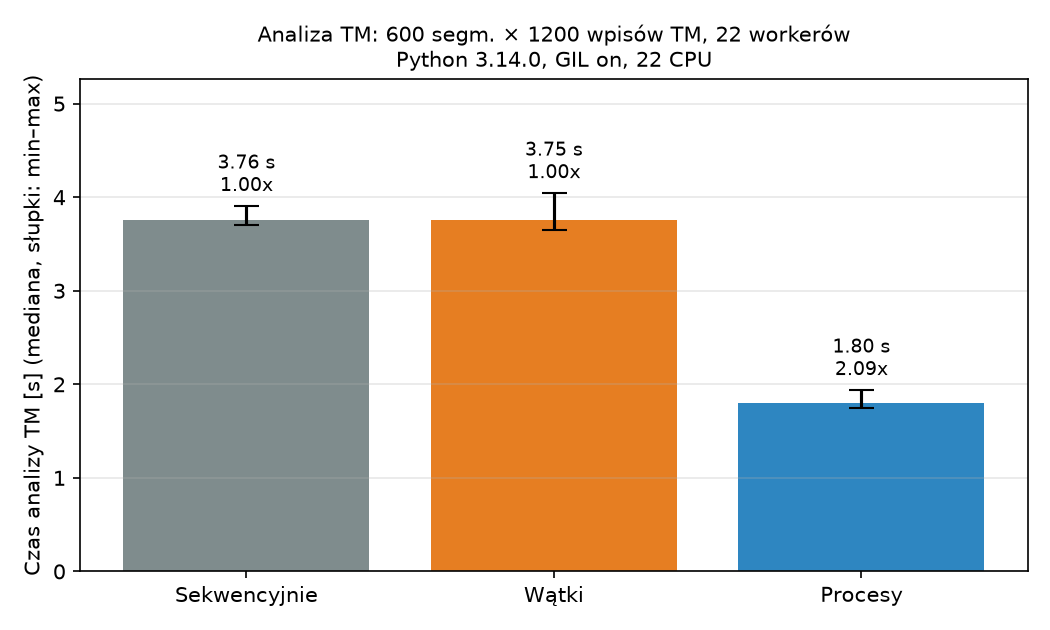
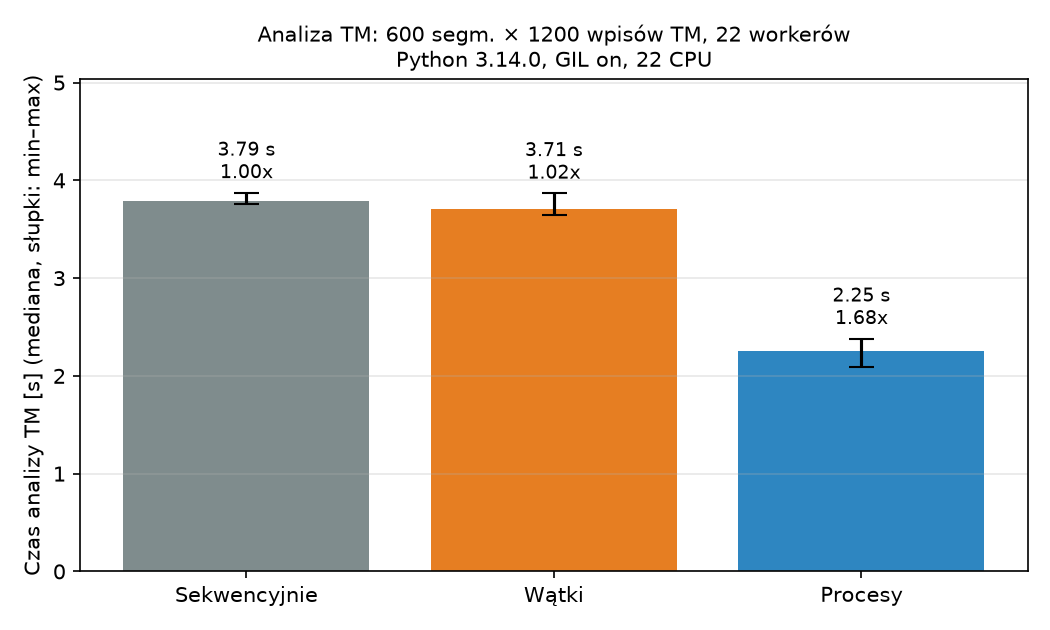
v1.0 Finalizacja wymagań. Poprawione workflow importu.

diff --git a/tests/test_release_100.py b/tests/test_release_100.py
@@ -1,0 +1,92 @@
+"""Acceptance checks for the complete offline GameCAT translation workflow."""
+
+from __future__ import annotations
+
+import json
+from pathlib import Path
+
+from gamecat.localization.profiles import FormatProfile
+from gamecat.models.glossary import GlossaryTerm
+from gamecat.models.segment import SegmentStatus
+from gamecat.services.project_service import ProjectService
+
+
+def test_game_localization_end_to_end_json_qa_tm_autosave_export_reopen(tmp_path: Path) -> None:
+    original = tmp_path / 'source.json'
+    original.write_text(json.dumps({
+        'version': 3,
+        'dialogues': [
+            {'id': 'a', 'speaker': 'Guard', 'en': 'Take {count} sword.', 'pl': ''},
+            {'id': 'b', 'speaker': 'Guard', 'en': 'Quest completed.', 'pl': ''},
+        ],
+    }), encoding='utf-8')
+    database = tmp_path / 'project.sqlite'
+    profile = FormatProfile('json', 'dialogues', 'id', 'en', 'pl')
+
+    service = ProjectService(database, autosave_debounce_seconds=0.5)
+    try:
+        project = service.create_project('Demo', 'en', 'pl', 'json')
+        service.set_format_profile(project, profile)
+        imported = service.import_file_async(project, original).result(timeout=10)
+        assert len(imported) == 2
+        assert [item.key for item in imported] == ['a', 'b']
+        service.create_glossary_term(project.id, GlossaryTerm('sword', ['miecz', 'ostrze']))
+
+        imported[0].target = 'Weź {count} miecz.'
+        imported[0].status = SegmentStatus.TRANSLATED
+        service.queue_segment_save(imported[0])
+        # A full-project operation must flush pending edits before reading SQLite.
+        qa = service.run_project_qa(project)
+        assert qa.segment_count == 2
+        assert [row.segment.key for row in qa.results] == ['b']
+
+        service.set_segment_statuses([imported[0]], SegmentStatus.APPROVED)
+        matches = service.find_tm_matches(project, imported[0].source, threshold=1.0)
+        assert matches and matches[0].entry.target == 'Weź {count} miecz.'
+
+        destination = tmp_path / 'ready.json'
+        assert service.export_using_template_async(project, original, destination).result(timeout=10) == 2
+        exported = json.loads(destination.read_text(encoding='utf-8'))
+        assert exported['version'] == 3
+        assert exported['dialogues'][0]['speaker'] == 'Guard'
+        assert exported['dialogues'][0]['pl'] == 'Weź {count} miecz.'
+        assert exported['dialogues'][1]['pl'] == ''
+        project_id = project.id
+    finally:
+        service.close()
+
+    reopened = ProjectService(database)
+    try:
+        project = reopened.load_project(project_id)
+        assert reopened.get_format_profile(project, 'json') == profile
+        segments = reopened.list_segments(project.id)
+        assert [(s.key, s.source, s.target, s.status) for s in segments] == [
+            ('a', 'Take {count} sword.', 'Weź {count} miecz.', SegmentStatus.APPROVED),
+            ('b', 'Quest completed.', '', SegmentStatus.NEW),
+        ]
+        assert reopened.list_glossary(project.id)[0].targets == ['miecz', 'ostrze']
+        assert reopened.project_progress(project.id).approved == 1
+    finally:
+        reopened.close()
+
+
+def test_revised_import_of_empty_target_clears_human_approval(tmp_path: Path) -> None:
+    service = ProjectService(tmp_path / 'project.sqlite')
+    try:
+        project = service.create_project('Demo', 'en', 'pl', 'txt')
+        source = tmp_path / 'source.txt'
+        source.write_text('Hello\n', encoding='utf-8')
+        row = service.import_file_async(project, source).result(timeout=5)[0]
+        row.target = 'Witaj'
+        service.save_segment(row)
+        service.set_segment_statuses([row], SegmentStatus.APPROVED)
+
+        imported = tmp_path / 'empty.txt'
+        imported.write_text('\n', encoding='utf-8')
+        service.import_translation_file_async(project, imported).result(timeout=5)
+
+        changed = service.list_segments(project.id)[0]
+        assert changed.target == ''
+        assert changed.status is SegmentStatus.NEW
+    finally:
+        service.close()

diff --git a/tests/test_translation_import.py b/tests/test_translation_import.py
@@ -75,3 +75,42 @@ def test_import_translation_txt_rejects_more_rows_than_project(tmp_path: Path):
             service.import_translation_file_async(project, translation).result(timeout=5)
     finally:
         service.close()
+
+
+def test_reimport_changed_translation_demotes_approved_segment(tmp_path: Path):
+    """An imported revision must not retain a human approval of older text."""
+    service, project = _project_with_source(tmp_path)
+    incoming = tmp_path / 'translation.txt'
+    try:
+        first = service.list_segments(project.id)[0]
+        first.target = 'Witaj'
+        first.status = SegmentStatus.APPROVED
+        service.save_segment(first)
+        incoming.write_text('Cześć\n\n', encoding='utf-8')
+
+        service.import_translation_file_async(project, incoming).result(timeout=5)
+
+        after = service.list_segments(project.id)[0]
+        assert after.source == 'Hello'
+        assert after.target == 'Cześć'
+        assert after.status is SegmentStatus.TRANSLATED
+    finally:
+        service.close()
+
+
+def test_reimport_unchanged_translation_preserves_reviewed_status(tmp_path: Path):
+    """Identical imports should not invalidate a completed human review."""
+    service, project = _project_with_source(tmp_path)
+    incoming = tmp_path / 'translation.txt'
+    try:
+        first = service.list_segments(project.id)[0]
+        first.target = 'Witaj'
+        first.status = SegmentStatus.REVIEWED
+        service.save_segment(first)
+        incoming.write_text('Witaj\n\n', encoding='utf-8')
+
+        service.import_translation_file_async(project, incoming).result(timeout=5)
+
+        assert service.list_segments(project.id)[0].status is SegmentStatus.REVIEWED
+    finally:
+        service.close()

diff --git a/gamecat/services/project_service.py b/gamecat/services/project_service.py
@@ -447,10 +447,15 @@ class ProjectService:
             if segment is None:
                 unmatched += 1
                 continue
-            segment.target = item.target
-            if item.target and segment.status is SegmentStatus.NEW:
+            if segment.target != item.target:
+                # An imported revision invalidates prior human review/approval.
+                # Never leave REVIEWED/APPROVED attached to a different Target.
+                segment.target = item.target
+                segment.status = (SegmentStatus.TRANSLATED if item.target.strip()
+                                  else SegmentStatus.NEW)
+            elif item.target.strip() and segment.status is SegmentStatus.NEW:
                 segment.status = SegmentStatus.TRANSLATED
-            elif not item.target and segment.status is SegmentStatus.TRANSLATED:
+            elif not item.target.strip() and segment.status is SegmentStatus.TRANSLATED:
                 segment.status = SegmentStatus.NEW
             changed.append(segment)
         updated = self.segments.update_many(changed)

diff --git a/docs/project_report.md b/docs/project_report.md
@@ -1,33 +1,92 @@
-# GameCAT — raport projektu zaliczeniowego
+# GameCAT 1.0 — sprawozdanie z projektu zaliczeniowego
 
-## 1. Cel
+**Przedmiot:** Zaawansowane techniki programowania w języku Python  
+**Temat:** GameCAT — aplikacja CAT do lokalizacji gier z pamięcią tłumaczeniową, QA i równoległą analizą  
+**Technologia:** Python ≥3.12, PySide6, SQLite, pytest, matplotlib, opcjonalnie OpenAI API  
+**Autor:** do uzupełnienia przez osobę oddającą projekt  
+**Repozytorium Git:** do uzupełnienia po publikacji (link wymagany przy oddawaniu na Moodle)
 
-GameCAT jest aplikacją CAT wspomagającą lokalizację gier. Projekt łączy realny scenariusz pracy tłumacza z wymaganiami przedmiotu „Zaawansowane techniki programowania w języku Python”.
+## 1. Problem i cel
 
-## 2. Architektura
+Przy tłumaczeniu gier trzeba przetwarzać pliki zawierające tysiące wypowiedzi, identyfikatory, zmienne oraz znaczniki formatowania. Ręczna edycja bez wsparcia prowadzi do niespójności terminologii, utraty placeholderów i trudności z oceną postępu. GameCAT udostępnia edytor Source/Target, pamięć tłumaczeniową (TM), glosariusz, weryfikację jakości (QA), import i eksport oraz zarządzanie stanem pracy. Założeniem projektu było użycie zaawansowanych konstrukcji Pythona **w rzeczywistych zadaniach**, a nie jako niepowiązanych demonstracji.
 
-Kod podzielono na modele domenowe, bazę SQLite, import/eksport, QA, Translation Memory, współbieżność, usługi aplikacyjne oraz GUI PySide6. Dzięki temu ciężkie operacje i baza danych nie są trwale sprzężone z widgetami.
+## 2. Funkcjonalność i architektura
 
-## 3. Zaawansowane elementy Pythona
+Użytkownik zakłada projekt w pliku SQLite, importuje segmenty i tłumaczy je w edytorze. System zapisuje zmiany w tle, zlicza statusy `NEW`, `TRANSLATED`, `REVIEWED`, `APPROVED`, sprawdza poprawność terminologii i placeholderów, podpowiada dopasowania TM oraz eksportuje tłumaczenie. W wersji 1.0 zachowano obsługę formatów TXT, CSV, JSON, TSV, XLSX oraz XML, w tym profile dla struktur zagnieżdżonych i eksport do oryginalnego szablonu.
 
-Projekt wykorzystuje własne dekoratory funkcji i metod, `@property`, własny iterator, generatory, wyrażenia generujące, regex z grupami nazwanymi, `ThreadPoolExecutor`, kolejkę `Queue` z asynchronicznym autosave, `Lock`/`RLock` i `ProcessPoolExecutor`. Benchmark w katalogu `benchmarks/` ilustruje wpływ GIL na zadanie CPU-bound.
+Podział odpowiedzialności:
 
-## 4. Testowanie
+- `gamecat/models/` — obiekty projektu, segmentu, glosariusza i TM;
+- `gamecat/database/` — SQLite, schemat, migracje, repozytoria i iterator;
+- `gamecat/importers/`, `gamecat/exporters/`, `gamecat/localization/` — pliki i profile;
+- `gamecat/services/project_service.py` — spójne operacje aplikacyjne;
+- `gamecat/qa/`, `gamecat/glossary/` i `gamecat/tm/` — walidacja, terminologia, fuzzy matching;
+- `gamecat/concurrency/` — kolejka autosave i zadania I/O;
+- `gamecat/gui/` — interfejs desktopowy (PySide6);
+- `gamecat/ai/` — opcjonalne OpenAI API, sugestie wstępnie weryfikowane przez QA;
+- `benchmarks/` — dane syntetyczne i porównanie GIL;
+- `tests/` — testy jednostkowe, integracyjne oraz warunkowe testy GUI.
 
-Testy jednostkowe i integracyjne znajdują się w `tests/`. Obejmują modele, SQLite, import/eksport, QA, glosariusz, TM, współbieżność oraz pełny workflow projektu. Testy PySide6 są uruchamiane tylko wtedy, gdy biblioteka jest dostępna.
+## 3. Mapowanie wymagań z materiałów prowadzącego
 
-## 5. Uruchomienie
+| Obowiązkowe zagadnienie | Konkretna implementacja i zastosowanie |
+|---|---|
+| **2 dekoratory funkcji, w tym jeden parametryzowany, `wraps`** | `gamecat/utils/decorators.py`: `measure_time` (pomiar czasów importu, eksportu, QA); `retry(attempts, delay, exceptions, when)` (ponowienia przejściowej blokady SQLite w `SaveQueue`) |
+| **Dekorator metody korzystający z `self`; `property`/`staticmethod`** | `gamecat/utils/decorators.py`: `requires_project` na metodach `MainWindow`; `gamecat/models/segment.py`: `Segment.target` i `Segment.status` z setterami; `SaveQueue._snapshot` |
+| **Własny iterator** | `gamecat/database/segment_iterator.py`: `SegmentBatchIterator.__iter__`, `__next__` — pobieranie segmentów z SQLite partiami |
+| **Generatory i wyrażenia generujące** | `gamecat/importers/txt_importer.py`, `csv_importer.py`, `json_importer.py` — `yield` przy imporcie; `ProjectService._import_file` — leniwy strumień nowych segmentów |
+| **Co najmniej 2 regex, grupy nazwane** | `gamecat/qa/patterns.py`: `BRACE_RE`, `PRINTF_OR_TAG_RE` (nazwane grupy); `gamecat/tm/similarity.py` — regex tokenizacji |
+| **Wątki I/O + synchronizacja** | `gamecat/concurrency/io_workers.py`: `ThreadPoolExecutor` import/eksport; `save_queue.py`: `Queue`, `Lock`; `database/connection.py`: `RLock` |
+| **Procesy CPU-bound** | `gamecat/tm/analysis.py`: `ProcessPoolExecutor` i `initializer` pamięci TM; analiza podobieństwa segmentów |
+| **GIL: sekwencyjnie / wątki / procesy** | `benchmarks/gil_benchmark.py`; wspólny algorytm `analyze`, rozgrzewka, kontrola wyników, rotacja kolejności, mediana i wykres |
 
-1. Python 3.12+.
-2. `pip install -r requirements.txt`.
-3. `python main.py`.
-4. Testy: `pytest -v`.
-5. Benchmark: `python benchmarks/gil_benchmark.py`.
+Repozytorium obejmuje `requirements.txt`, type hints w kluczowych modułach, docstringi, obsługę wyjątków i próbki w `sample_data/`. Historia rozwoju jest zachowana w Git i w pliku `.bundle` dołączonym do wydania.
 
-## 6. Workflow tłumaczenia
+## 4. Scenariusz działania
 
-W wersji 0.6 dodano ręczne i masowe sterowanie etapem pracy segmentu (`NEW`, `TRANSLATED`, `REVIEWED`, `APPROVED`). GUI umożliwia filtrowanie po statusie, skróty `Ctrl+1..4`, wielokrotne zaznaczenie segmentów oraz bieżące statystyki postępu tłumaczenia, recenzji i zatwierdzania. Polityka `Ctrl+Enter` awansuje wyłącznie `NEW` do `TRANSLATED`, dzięki czemu ponowne potwierdzenie tekstu nie cofa statusów `REVIEWED`/`APPROVED`.
+1. Uruchomić `python main.py`, utworzyć projekt EN→PL i zaimportować `sample_data`.
+2. Zaznaczyć segment, wpisać lub zaimportować Target i zapisać `Ctrl+S`.
+3. Wprowadzić dwa dopuszczalne warianty jednego terminu do glosariusza; uruchomić QA.
+4. Potwierdzić segment jako `APPROVED`; sprawdzić sugestie i analizę TM.
+5. Wyeksportować tłumaczenie; przy JSON/XML skorzystać z profilu i szablonu.
+6. Zamknąć i ponownie otworzyć bazę `.sqlite`; segmenty i statusy pozostają zapisane.
 
-## 7. Rozwój po zaliczeniu
+## 5. Testy i weryfikacja
 
-Kolejne wersje mogą dodać TMX/XLIFF, integrację z lokalnym LLM przez LM Studio/Ollama, obsługę formatów konkretnych gier oraz import pamięci tłumaczeniowych.
+W środowisku wydania 1.0 (`CPython 3.13.5`, Linux) polecenie `python -m pytest -q` zakończyło się wynikiem **160 passed, 12 skipped, 0 failed**. Testy obejmują model, repozytoria, migrację glosariusza, współbieżny zapis, QA, TM, import/eksport, AI z atrapą klienta API i test akceptacyjny pełnego przepływu. `python -m compileall -q gamecat benchmarks tests main.py` zakończyło się bez błędów. Nie wykonano płatnych wywołań OpenAI API.
+
+**Ograniczenie testów:** 12 pominiętych testów wymaga PySide6, którego nie ma w tym środowisku. Oznacza to, że należy dodatkowo wykonać ręczny scenariusz z `docs/gui_acceptance_checklist.md` na Windows z zainstalowanym PySide6. `compileall` sprawdza składnię, **nie** zastępuje uruchomienia GUI.
+
+Dodatkowe zabezpieczenie wprowadzone w 1.0: ponowny import zmienionego tłumaczenia nie zachowuje poprzedniego statusu `REVIEWED`/`APPROVED`, lecz cofa status do `TRANSLATED` (lub `NEW`, jeśli tekst wyczyszczono). Identyczny import zachowuje recenzję. Potwierdzają to testy w `tests/test_translation_import.py` i `tests/test_release_100.py`.
+
+## 6. Benchmark GIL — procedura i wyniki
+
+Uruchomiono **ten sam algorytm** analizy TM dla trzech trybów, po rozgrzewce i sprawdzeniu zgodności wyników. Test 1.0: 160 segmentów, 240 wpisów TM, 2 workery, seed 2026, trzy rundy (rotowana kolejność), wynik jako mediana:
+
+| Tryb | Mediana [s] | Przyspieszenie do sekwencyjnego |
+|---|---:|---:|
+| Sekwencyjnie | 0,260 | 1,00× |
+| Wątki | 0,244 | 1,06× |
+| Procesy | 1,152 | 0,23× |
+
+**Interpretacja (8 zdań).** Analiza podobieństwa segmentów TM jest zadaniem CPU-bound. Przy włączonym GIL standardowy CPython nie wykonuje jednocześnie kodu bajtowego Pythona w wielu wątkach tego samego procesu. Dlatego wątki nie dają niezawodnego przyspieszenia w takich zadaniach, nawet jeśli niektóre pomiary różnią się o kilka procent. Każdy proces posiada własny interpreter i może wykonywać obliczenia równolegle. Uruchomienie procesów wymaga jednak czasu i przekazywania danych między nimi. Dla małego zbioru użytego w pomiarze 1.0 ten narzut przewyższył zysk, więc procesy były wolniejsze. W historycznym pomiarze 0.5.1 na Windows 11 (600 × 1200; 22 workery) procesy osiągnęły 2,09×, wątki 1,00×, co pokazuje znaczenie rozmiaru danych i sprzętu. W praktyce GameCAT używa wątków do I/O, a równoległą analizę TM uruchamia w procesach dla dostatecznie dużych zadań, z możliwością pracy sekwencyjnej.
+
+![Wykres porównawczy pomiaru 1.0](../benchmarks/gil_benchmark.png)
+
+Wyniki surowe i parametry są w `benchmarks/results.json`, tabelaryczne w `benchmarks/results.md`, wykres w `benchmarks/gil_benchmark.png`. Historia osobnego pomiaru Windows: `benchmarks/history_0.5.1_windows.md`. Komenda odtworzenia: `python benchmarks/gil_benchmark.py --segments 160 --tm 240 --repeats 3 --workers 2 --update-readme`.
+
+## 7. Napotkane problemy i rozwiązania
+
+- **Współbieżne operacje SQLite.** Oddzielne ścieżki GUI i autosave potrzebowały synchronizacji. Zastosowano `RLock` i pojedynczą kolejkę zapisu.
+- **Zapis każdej litery.** `SaveQueue` scala kolejne zmiany segmentu i wystawia `flush()` jako granicę trwałości.
+- **Import źródeł gier.** Różne struktury plików wymagają deklaratywnych profili mapowania, a eksport do oryginalnego szablonu musi sprawdzać zgodność identyfikatorów i tekstu Source.
+- **Koszt multiprocessingu.** Dla małych danych procesy są wolniejsze, więc wynik benchmarku należy interpretować wraz z rozmiarem danych i kosztami startu.
+- **Stan workflow a import.** Nowy import Target mógł zachować poprzednie `APPROVED`; w 1.0 poprawiono przejścia statusów i dołączono testy regresyjne.
+
+## 8. Ograniczenia i rozwój
+
+Program nie interpretuje wszystkich własnościowych archiwów gier i nie gwarantuje identyczności bajtowej ponownej serializacji JSON/XML. Płatne OpenAI API wymaga własnego klucza i świadomej zgody na wysłanie tekstu; limit kosztu jest szacunkowy. Testy GUI i żywego OpenAI API wymagają weryfikacji na komputerze użytkownika. Potencjalne rozszerzenia: XLIFF/TMX, obsługa konkretnych formatów gier i integracja lokalnego LLM, poza zakresem wydania zaliczeniowego.
+
+## 9. Instrukcja uruchomienia i przekazania
+
+W katalogu głównym: `python -m venv .venv`, aktywować środowisko, `python -m pip install -r requirements.txt`, następnie `python main.py`. Testy: `python -m pytest -q`, benchmark: komenda z punktu 6. Na Moodle należy umieścić dokument zawierający **rzeczywisty link do opublikowanego repozytorium** i ścieżkę do projektu (katalog główny, gałąź/tag wydania). Repozytorium GitHub/GitLab musi zostać opublikowane przez właściciela — sama lokalna paczka ZIP lub `.bundle` nie tworzy publicznego linku.

diff --git a/README.md b/README.md
@@ -2,7 +2,7 @@
 
 GameCAT to desktopowy program CAT (Computer-Assisted Translation) do lokalizacji gier, przygotowany jako projekt zaliczeniowy z przedmiotu **Zaawansowane techniki programowania w języku Python**.
 
-## Funkcje wersji 0.11.0
+## Funkcje wersji 1.0.0
 
 - projekty tłumaczeniowe i segmenty Source/Target,
 - wyszukiwanie Source/Target z regex i sortowaniem, filtry QA/TM, podgląd masowej zamiany Target oraz nawigacja do braków/QA,
@@ -33,14 +33,14 @@ Instalacja:
 python -m venv .venv
 # Windows
 .venv\Scripts\activate
-pip3 install -r requirements.txt
+python -m pip install -r requirements.txt
 python main.py
 ```
 
 Testy:
 
 ```bash
-pytest -v
+python -m pytest -v
 ```
 
 Benchmark (wyniki trafiają do `benchmarks/results.md`, `results.json` i `gil_benchmark.png`):
@@ -75,6 +75,8 @@ Dane testowe: przykładowe pliki w `sample_data/`, a dane do benchmarku generuje
 | Eksport/import TM 0.8 | `gamecat/tm/exchange.py`, `ProjectService.import_tm_file` | transakcyjny import TM, eksport CSV/JSON |
 | Testy | `tests/` (pytest) | |
 | Logging | `gamecat/logging_config.py` | plik `gamecat.log` |
+
+W ramach finalizacji poprawiono również bezpieczeństwo importu już przetłumaczonego pliku: nowy Target unieważnia poprzednie zatwierdzenie (`REVIEWED`/`APPROVED`), natomiast import identycznego tekstu nie odbiera statusu. Klucz OpenAI API nie należy do danych projektu.
 
 ## Nowości w wersji 0.11
 
@@ -118,9 +120,9 @@ Analiza działa w wątku I/O, który uruchamia pulę procesów, więc GUI pozost
 <!-- BENCHMARK:START -->
 | Tryb | Mediana [s] | Min [s] | Max [s] | Przyspieszenie |
 |---|---:|---:|---:|---:|
-| Sekwencyjnie | 3.759 | 3.701 | 3.909 | 1.00x |
-| Wątki | 3.754 | 3.655 | 4.047 | 1.00x |
-| Procesy | 1.796 | 1.745 | 1.942 | 2.09x |
+| Sekwencyjnie | 3.794 | 3.753 | 3.872 | 1.00x |
+| Wątki | 3.707 | 3.641 | 3.867 | 1.02x |
+| Procesy | 2.254 | 2.090 | 2.380 | 1.68x |
 
 Dane: 600 segmentów × 1200 wpisów TM, 22 workerów, 5 powtórzeń (mediana), seed 2026.  
 Środowisko: Python 3.14.0 (CPython), Windows 11, 22 rdzeni logicznych, GIL włączony.
@@ -130,11 +132,11 @@ Dane: 600 segmentów × 1200 wpisów TM, 22 workerów, 5 powtórzeń (mediana), 
 
 ## Wnioski z benchmarku GIL
 
-Benchmark mierzy rzeczywistą operację programu – analizę projektu względem TM – w trzech trybach, z przebiegiem rozgrzewkowym, rotowaną kolejnością trybów i medianą z kilku powtórzeń. Fuzzy matching w `gamecat/tm/similarity.py` to obliczenia w czystym Pythonie (tokenizacja, operacje na zbiorach), czyli zadanie CPU-bound. W standardowym CPythonie GIL pozwala w danej chwili wykonywać kod bajtowy tylko jednemu wątkowi, dlatego pula wątków nie skraca czasu analizy – wątki jedynie na zmianę korzystają z jednego „kanału” wykonania, a ich koszt przełączania może wynik minimalnie pogorszyć. Pula procesów uruchamia osobne interpretery z własnym GIL, więc obliczenia rozkładają się na rdzenie CPU. Przyspieszenie procesów jest mniejsze niż liczba rdzeni, ponieważ w czasie pomiaru mieści się start procesów, przekazanie TM do workerów i serializacja wyników (pickle). W tym pomiarze wątki osiągnęły 1.00x względem wykonania sekwencyjnego, a procesy 2.09x na maszynie z 22 rdzeniami logicznymi. Z tego powodu GameCAT używa procesów do analizy TM, a wątków do zadań I/O – importu, eksportu i autosave – gdzie wątek czeka na dysk, a GIL jest wtedy zwalniany. Dla małych projektów analiza jest wykonywana sekwencyjnie, bo narzut uruchomienia puli przewyższa zysk. Na kompilacji free-threading (Python 3.13t/3.14t) ten sam kod w trybie wątków mógłby skalować się podobnie do procesów, bez kosztu serializacji – to możliwe rozszerzenie pomiarów.
+Pomiar z wydania 1.0 dotyczy tej samej funkcji analizy Translation Memory dla trzech trybów: sekwencyjnego, `ThreadPoolExecutor` i `ProcessPoolExecutor`. Wszystkie tryby przeszły kontrolę identyczności wyników; wykonano rozgrzewkę i trzy rundy pomiarowe z rotacją kolejności. Dla 160 segmentów i 240 wpisów TM mediana wyniosła odpowiednio **0,260 s**, **0,244 s** i **1,152 s** (CPython 3.13.5, Linux, 2 workery). W tak małym zadaniu koszt uruchomienia procesów i przekazania danych jest większy od potencjalnego zysku; dlatego procesy osiągnęły tylko **0,23×** prędkości odniesienia. Minimalna różnica między wątkami a wykonaniem sekwencyjnym przy takich czasach nie dowodzi przyspieszenia pracy CPU przez wątki. Przy włączonym GIL w standardowym CPythonie jednocześnie wykonywać kod Pythona może tylko jeden wątek, więc do CPU-bound wybieramy procesy dopiero dla dostatecznie dużych zadań. **W pomiarze historycznym na Windows 11** z większym zestawem danych (600 × 1200) procesy osiągnęły **2,09×**, a wątki **1,00×**. Różnica nie jest sprzecznością: wydajność zależy od rozmiaru zadania, parametrów maszyny i narzutu komunikacji. Wątki w GameCAT pozostają właściwym wyborem dla I/O (import, eksport, autosave), a dla analizy TM aplikacja może wybrać procesy lub sekwencyjne wykonanie zależnie od wielkości projektu.
+
+Historyczne wyniki: [benchmark 0.5.1 / Windows](benchmarks/history_0.5.1_windows.md). Wynik 1.0: [tabela](benchmarks/results.md), [JSON](benchmarks/results.json), [wykres](benchmarks/gil_benchmark.png). Procedurę można powtórzyć komendą: `python benchmarks/gil_benchmark.py --segments 160 --tm 240 --repeats 3 --workers 2 --update-readme`. Większy zestaw jest opcjonalny i trwa dłużej.
 
 ## Problemy napotkane podczas realizacji
-
-> Szkic do weryfikacji i przepisania własnymi słowami.
 
 - **Wyścig przy zapisie do SQLite (v0.3).** Wątek autosave i wątek GUI korzystały ze wspólnego połączenia, co prowadziło do przeplatania się transakcji. Rozwiązaniem jest `ThreadSafeConnection`, które serializuje transakcje blokadą `RLock`.
 - **Zapis przy każdym naciśnięciu klawisza (v0.5).** Synchroniczny zapis spowalniał edytor. `SaveQueue` przenosi zapis do osobnego wątku i scala szybkie zmiany tego samego segmentu (debounce), a `flush()` wyznacza granicę trwałości przed QA, eksportem i zamknięciem projektu.
@@ -288,3 +290,5 @@ naliczone nawet po anulowaniu. Tekst i dopasowania TM/glosariusza są
 wysyłane na serwery OpenAI.
 
 Szczegóły: [docs/releases/0.10.md](docs/releases/0.10.md).
+
+Materiały prezentacyjne wydania: [PDF raportu](docs/GameCAT_1.0_raport_zaliczeniowy.pdf) i [PowerPoint do obrony](docs/GameCAT_1.0_obrona.pptx).

diff --git a/docs/releases/1.0.md b/docs/releases/1.0.md
@@ -1,0 +1,22 @@
+# GameCAT 1.0.0 — wydanie zaliczeniowe
+
+**Baza:** GameCAT 0.11.0. Nie usunięto istniejących formatów, TM, glosariusza ani modułu OpenAI API.
+
+## Zmiany
+
+- Wzmocniono regułę workflow przy ponownym imporcie Target: zmieniony tekst powoduje cofnięcie zatwierdzonego statusu do `TRANSLATED` lub `NEW`, a identyczny tekst zachowuje status.
+- Dodano testy akceptacyjne pełnej ścieżki projektowej: JSON (profil) → import → glosariusz → QA → autosave → TM → eksport do szablonu → ponowne otwarcie.
+- Powtórzono mały benchmark GIL i zachowano większy, historyczny wynik Windows w osobnym pliku. Oba pomiary mają jawne dane środowiska i nie są mieszane.
+- Uaktualniono README, numer wersji oraz archiwum repozytorium.
+
+## Weryfikacja
+
+- `python -m pytest -q`: 160 passed, 12 skipped, 0 failed — Python 3.13.5 / Linux.
+- `python -m compileall -q gamecat benchmarks tests main.py`: OK.
+- Benchmark GIL: 3 tryby, 3 rundy, identyczne wyniki analizy (160×240).
+
+## Ograniczenia
+
+- Nie użyto rzeczywistego klucza OpenAI i nie wykonano płatnych żądań API.
+- Niektóre formaty archiwów gier wymagają własnych adapterów; reserializacja JSON/XML nie zapewnia identyczności bajtowej.
+

diff --git a/benchmarks/history_0.5.1_windows.md b/benchmarks/history_0.5.1_windows.md
@@ -1,0 +1,11 @@
+# Historyczny benchmark 0.5.1 — Windows 11
+
+Poniższe wartości pochodzą z pierwotnego wydania użytkownika 0.5.1. **Nie są pomiarem wykonanym w środowisku wydania 1.0.** Zachowano je, ponieważ pokazują wpływ wielkości danych i kosztu uruchamiania procesów.
+
+| Tryb | Mediana [s] | Min [s] | Max [s] | Przyspieszenie |
+|---|---:|---:|---:|---:|
+| Sekwencyjnie | 3.759 | 3.701 | 3.909 | 1.00× |
+| Wątki | 3.754 | 3.655 | 4.047 | 1.00× |
+| Procesy | 1.796 | 1.745 | 1.942 | 2.09× |
+
+Konfiguracja: 600 segmentów, 1200 wpisów TM, 22 workerów, 5 powtórzeń, seed 2026. CPython 3.14.0, Windows 11, 22 logiczne CPU, GIL włączony. Wyniki dotyczą funkcji analizy TM i obejmują koszt startu procesów. Nie wolno ich traktować jako gwarantowanego przyspieszenia na innym komputerze.

diff --git a/benchmarks/results.md b/benchmarks/results.md
@@ -2,9 +2,9 @@
 
 | Tryb | Mediana [s] | Min [s] | Max [s] | Przyspieszenie |
 |---|---:|---:|---:|---:|
-| Sekwencyjnie | 3.759 | 3.701 | 3.909 | 1.00x |
-| Wątki | 3.754 | 3.655 | 4.047 | 1.00x |
-| Procesy | 1.796 | 1.745 | 1.942 | 2.09x |
+| Sekwencyjnie | 3.794 | 3.753 | 3.872 | 1.00x |
+| Wątki | 3.707 | 3.641 | 3.867 | 1.02x |
+| Procesy | 2.254 | 2.090 | 2.380 | 1.68x |
 
 Dane: 600 segmentów × 1200 wpisów TM, 22 workerów, 5 powtórzeń (mediana), seed 2026.  
 Środowisko: Python 3.14.0 (CPython), Windows 11, 22 rdzeni logicznych, GIL włączony.
